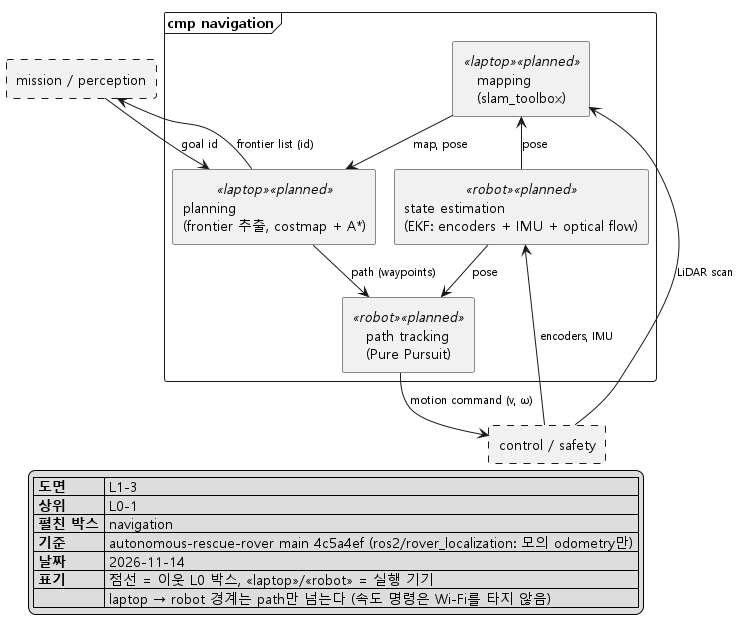
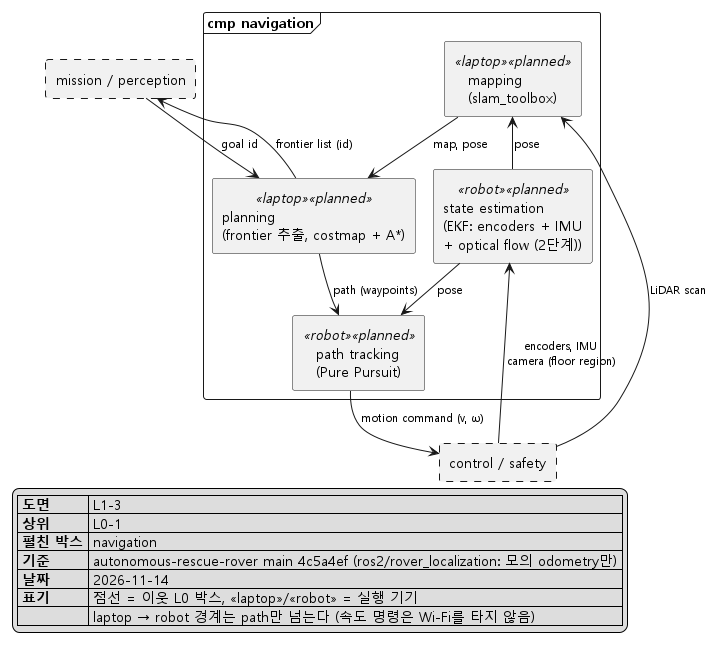
docs: controlled lit test environment, optical flow as stage 2

Changed region(s): [[0.0, 0.06, 0.9888, 0.9905], [0.2163, 0.0, 0.8343, 0.06]]

diff --git a/docs/architecture/README.md b/docs/architecture/README.md
@@ -47,7 +47,7 @@
 - 만들 것: navigation이 SLAM 지도에서 뽑은 frontier 후보에 id를 붙여 올리면, LLM이 추가 관측까지 보고 하나를 골라 그 id를 목표로 내린다. 목록에 없는 id는 검증에서 거른다.
 
 **navigation**
-- state estimation: 엔코더 + IMU + optical flow를 EKF로 합쳐 pose (`robot`).
+- state estimation: 엔코더 + IMU + optical flow(2단계)를 EKF로 합쳐 pose (`robot`).
 - mapping: LiDAR scan + pose로 지도 (slam_toolbox, `laptop`).
 - planning: 지도에서 frontier 후보 추출, 목표가 정해지면 costmap 위 A* (`laptop`).
 - path tracking: 경로 + pose로 Pure Pursuit → 움직임 명령 (v, ω) (`robot`).
@@ -77,7 +77,9 @@
 
 ## 4. 이미 정한 것
 
+- 시험 환경: 조명이 충분한 통제된 실내에서 기능을 하나씩 검증한다. 어둠은 고려하지 않는다.
 - SLAM은 `laptop` (Pi 메모리 부족).
+- optical flow: 웹캠(C270)을 아래로 20~30° 꺾어 화면 아래쪽 바닥 영역에서 계산. 카메라 높이 · 각도를 고정 · 보정하면 바닥 위 이동을 실제 거리로 환산 가능. **2단계** — EKF는 엔코더 + IMU로 먼저 만들고 다음에 붙인다. 화면 위쪽은 사람 탐지에 그대로 쓴다.
 - Pico 펌웨어와 Pi ↔ Pico 프로토콜 (PR #5).
 - 기구 실측: 트레드 중간 62.5 cm / 앞 · 뒤 56.5 cm, 휠베이스 53 cm (앞–중간 28, 중간–뒤 25).
 
